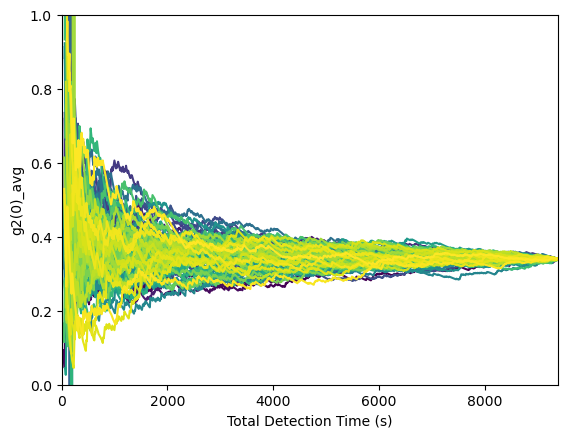
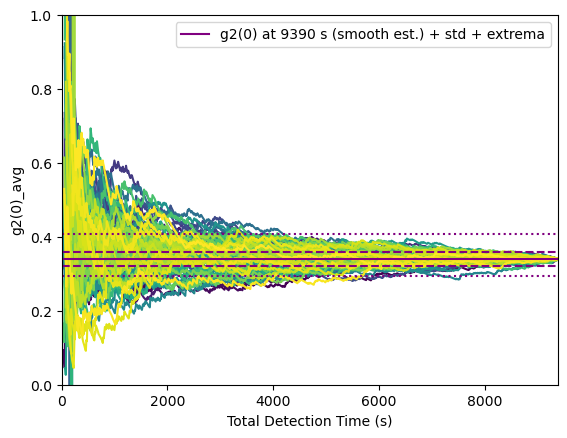
Comparisons of g2(0)
Standard errors are now calculated and plotted on g2(0) plots, with a comparison plot between three methods of g2(0) calculation also included.

Changed region(s): [[0.1199, 0.5639, 0.9894, 0.6233], [0.3898, 0.0594, 0.9594, 0.1187], [0.2998, 0.0594, 0.3598, 0.089]]

diff --git a/code/plot.py b/code/plot.py
@@ -50,6 +50,54 @@ def plot_event_histogram(in_hist, in_axis_delays, in_delay_unit, in_save_prefix,
         plt.close(fig_sample)
 
 
+def plot_g2zero_comparison(in_spreads, in_spread_labels, in_save_prefix):
+
+    fig_comp, ax_comp = plt.subplots()
+    
+    # The spreads argument must be a list of sub-lists.
+    # Each sub-list of values is drawn as a column of points in the plot.
+    # The sub-list itself should have 1, 3 or 5 values.
+    # The middle value is the mean and the adjacent values are one std away.
+    # The outer values are the lowest and highest values of the metric.
+    # Extra labels must have one item per each sub-list.
+    
+    c = 0
+    label_avg = "Avg"
+    label_std = "Avg +- Std"
+    label_min = "Min"
+    label_max = "Max"
+    for spread in in_spreads:
+        num_vals = len(spread)
+        id_mean = int((num_vals - 1)/2)
+        ax_comp.plot(c, spread[id_mean], linestyle = "None", 
+                     color = "k", marker = "x", label = label_avg)
+        label_avg = None
+        if num_vals > 1:
+            id_std_low = id_mean - 1
+            id_std_high = id_mean + 1
+            ax_comp.plot(c, spread[id_std_low], linestyle = "None", 
+                         color = "k", marker = "+", label = label_std)
+            ax_comp.plot(c, spread[id_std_high], linestyle = "None",
+                         color = "k", marker = "+")
+            label_std = None
+        if num_vals > 3:
+            ax_comp.plot(c, spread[-1], linestyle = "None",
+                         color = "k", marker = "1", label = label_max)
+            ax_comp.plot(c, spread[0], linestyle = "None",
+                         color = "k", marker = "2", label = label_min)
+            label_min = None
+            label_max = None
+        c += 1
+    
+    ax_comp.set_xlim([-0.5, c - 0.5])
+    ax_comp.set_xticks(range(c))
+    ax_comp.set_xticklabels(in_spread_labels, rotation=45)
+    
+    ax_comp.legend()
+    fig_comp.savefig(in_save_prefix + "_g2zero_comparison.png", bbox_inches="tight")
+    plt.close(fig_comp)
+
+
 # TODO: Standardise code to work with dataframes or numpy arrays.
 def plot_traces(in_trace_matrix, in_axis_time, 
                 in_save_prefix, in_var_name, in_save_suffix = None,
@@ -78,26 +126,26 @@ def plot_traces(in_trace_matrix, in_axis_time,
         c = 0
         for metric_spread in in_extra_metrics:
             num_vals = len(metric_spread)
-            id_mean = (num_vals - 1)/2
+            id_mean = int((num_vals - 1)/2)
             label_metric = in_extra_labels[c]
             if num_vals > 1:
                 id_std_low = id_mean - 1
                 id_std_high = id_mean + 1
-                ax_traces.plot([xlim, xlim],
-                               [[metric_spread[id_std_low], metric_spread[id_std_low]],
-                                [metric_spread[id_std_high], metric_spread[id_std_high]]],
+                ax_traces.plot(xlim,
+                               [[metric_spread[id_std_low], metric_spread[id_std_high]],
+                                [metric_spread[id_std_low], metric_spread[id_std_high]]],
                                color = in_extra_colors[c], linestyle = "--")
                 label_metric += " + std"
             if num_vals > 3:
-                ax_traces.plot([xlim, xlim],
-                               [[metric_spread[0], metric_spread[0]],
-                                [metric_spread[-1], metric_spread[-1]]],
+                ax_traces.plot(xlim,
+                               [[metric_spread[0], metric_spread[-1]],
+                                [metric_spread[0], metric_spread[-1]]],
                                color = in_extra_colors[c], linestyle = ":")
                 label_metric += " + extrema"
             ax_traces.plot(xlim, 
                            [metric_spread[id_mean], metric_spread[id_mean]], 
                            color = in_extra_colors[c], linestyle = "-",
-                           label = in_extra_labels[c])
+                           label = label_metric)
             c += 1
             
     ax_traces.set_xlabel("Total Detection Time (s)")

diff --git a/code/eda.py b/code/eda.py
@@ -106,8 +106,11 @@ for filename_prefix in filename_prefixes:
     # Fit the expectation of the histogram: https://doi.org/10.1063/1.5143786
     t = time()
     fit_result = calc.calc_g2zero_fit(df_sample_full, df_delays, domain_knowledge)
+    g2lf_avg = fit_result.params["amp_ratio"].value
+    g2lf_std = fit_result.params["amp_ratio"].stderr
     print("Fit for %i parameters: %f s" % (len(fit_result.params), time() - t))
-    print("g2(0) = %f +- %f" % (fit_result.params["amp_ratio"].value, fit_result.params["amp_ratio"].stderr))
+    # print("g2(0) = %f +- %f" % (g2lf_avg, g2lf_std))
+    fit_result.params.pretty_print()
     
     # Plot the delay-based histogram of the full sample, raw and fitted.
     plot.plot_event_histogram(df_sample_full, df_delays, delay_unit, plot_prefix + "_fit",
@@ -205,12 +208,40 @@ for filename_prefix in filename_prefixes:
     df_trace_amp_s["rsd"] = df_trace_amp_s["std"]/df_trace_amp_s["avg"]
     df_trace_bg_s["rsd"] = df_trace_bg_s["std"]/df_trace_bg_s["avg"]
     
+    # Compare final g2(0) values across different estimation/fitting methods.
+    g2l_avg = df_trace_g2zero["avg"].iloc[0,-1]
+    g2l_std = df_trace_g2zero["std"].iloc[0,-1]
+    g2l_min = df_trace_g2zero["min"].iloc[0,-1]
+    g2l_max = df_trace_g2zero["max"].iloc[0,-1]
+    g2ls_avg = df_trace_g2zero_s["avg"].iloc[0,-1]
+    g2ls_std = df_trace_g2zero_s["std"].iloc[0,-1]
+    g2ls_min = df_trace_g2zero_s["min"].iloc[0,-1]
+    g2ls_max = df_trace_g2zero_s["max"].iloc[0,-1]
+    
+    
+    plot.plot_g2zero_comparison(in_spreads = [[g2l_min, g2l_avg - g2l_std, g2l_avg, g2l_avg + g2l_std, g2l_max],
+                                              [g2ls_min, g2ls_avg - g2ls_std, g2ls_avg, g2ls_avg + g2ls_std, g2ls_max],
+                                              [g2lf_avg - g2lf_std, g2lf_avg, g2lf_avg + g2lf_std]], 
+                                in_spread_labels = ["Quick Est. (Raw)", 
+                                                    "Quick Est. (Smoothed)",
+                                                    "Function Fit"], 
+                                in_save_prefix = plot_prefix)
+
     # Plot traces for the number of trajectories and random seed chosen.
-    for stat_label in ["avg", "std"]:
-        plot.plot_traces(df_trace_g2zero[stat_label], range_snapshots, plot_prefix, "g2(0)_" + stat_label,
-                         in_ylim = [0, 1])
-        plot.plot_traces(df_trace_g2zero_s[stat_label], range_snapshots, plot_prefix, "g2(0)_" + stat_label, "smoothed",
-                         in_ylim = [0, 1])
+    plot.plot_traces(df_trace_g2zero["avg"], range_snapshots, plot_prefix, "g2(0)_avg",
+                     in_extra_metrics = [[g2l_min, g2l_avg - g2l_std, g2l_avg, g2l_avg + g2l_std, g2l_max]], 
+                     in_extra_colors = ["purple"], 
+                     in_extra_labels = ["g2(0) at %i s (raw est.)" % (len(range_snapshots)*snapshot_bin_size)],
+                     in_ylim = [0, 1])
+    plot.plot_traces(df_trace_g2zero_s["avg"], range_snapshots, plot_prefix, "g2(0)_avg", "smoothed",
+                     in_extra_metrics = [[g2ls_min, g2ls_avg - g2ls_std, g2ls_avg, g2ls_avg + g2ls_std, g2ls_max]], 
+                     in_extra_colors = ["purple"], 
+                     in_extra_labels = ["g2(0) at %i s (smooth est.)" % (len(range_snapshots)*snapshot_bin_size)],
+                     in_ylim = [0, 1])
+    plot.plot_traces(df_trace_g2zero["std"], range_snapshots, plot_prefix, "g2(0)_std",
+                     in_ylim = [0, 1])
+    plot.plot_traces(df_trace_g2zero_s["std"], range_snapshots, plot_prefix, "g2(0)_std", "smoothed",
+                     in_ylim = [0, 1])
     
     # plot.plot_traces(df_trace_g2zero["std"], range_snapshots, plot_prefix, "g2(0)_std",
     #                  in_ylim = [0, np.max([df_trace_g2zero["std"].max().max(), df_trace_g2zero_s["std"].max().max()])])

diff --git a/code/calc.py b/code/calc.py
@@ -133,10 +133,21 @@ def calc_g2zero_fit(in_df_sample, in_df_delays, in_knowledge):
     
     # Run a five-parameter fit with the Nelder Mead method.
     # Refine amplitude fit with the least-squares method.
-    fitted_params = minimize(func, params, args=(in_df_delays, in_df_sample, in_knowledge, True), method="nelder_mead")
+    # Then run a five-parameter least-squares fit, just for the errors.
+    fitted_params = minimize(func, params, args=(in_df_delays, in_df_sample, in_knowledge, True), 
+                             method="nelder_mead")
+
     fitted_params.params["delay_shift"].vary = False
     fitted_params.params["bg"].vary = False
     fitted_params.params["decay_peak"].vary = False
-    fitted_params = minimize(func, fitted_params.params, args=(in_df_delays, in_df_sample, in_knowledge, True), method="least_squares")
+    fitted_params = minimize(func, fitted_params.params, args=(in_df_delays, in_df_sample, in_knowledge, True), 
+                             method="least_squares")
+    
+    fitted_params.params["delay_shift"].vary = True
+    fitted_params.params["bg"].vary = True
+    fitted_params.params["decay_peak"].vary = True
+    fitted_params = minimize(func, fitted_params.params, args=(in_df_delays, in_df_sample, in_knowledge, True), 
+                             method="least_squares")
+    # fitted_params.params.pretty_print()
     
     return fitted_params

diff --git a/README.md b/README.md
@@ -2,4 +2,5 @@
 An ML application working to predict the quality of single photon sources (i.e. quantum dots).
 
 Dependencies:
+conda install -c conda-forge numdifftools
 conda install -c conda-forge lmfit
